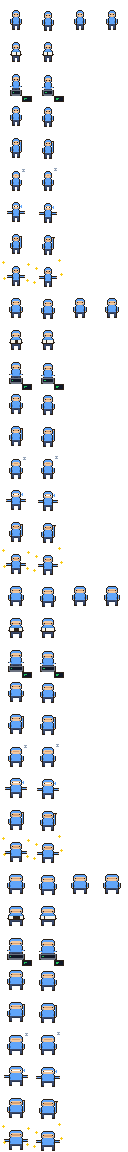
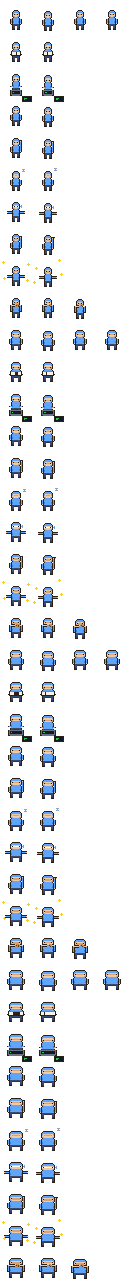
Eat a cookie whenever the context grows

diff --git a/Sources/ClaudeBuddy/Model.swift b/Sources/ClaudeBuddy/Model.swift
@@ -3,12 +3,13 @@ import Observation
 
 /// One animation row in the sprite sheet. Row order must match tools/gen_sprites.py.
 enum Pose: Int, CaseIterable {
-    case idle = 0, read, type, run, wait, sleep, oops, wave, spawn
+    case idle = 0, read, type, run, wait, sleep, oops, wave, spawn, eat
 
     var row: Int { rawValue }
     var frameCount: Int {
         switch self {
         case .idle: return 4
+        case .eat: return 3
         default: return 2
         }
     }
@@ -238,7 +239,13 @@ final class SessionModel {
             let tokens = url.flatMap(ContextMeter.contextTokens(at:))
             guard let tokens else { return }
             DispatchQueue.main.async { [weak self] in
-                self?.agents.first(where: { $0.id == id })?.contextTokens = tokens
+                guard let agent = self?.agents.first(where: { $0.id == id }) else { return }
+                let previous = agent.contextTokens
+                agent.contextTokens = tokens
+                // Context grew: nom nom. Don't interrupt a raised hand (waiting for the user).
+                if let previous, tokens > previous + 1_000, agent.pose != .wait, !agent.leaving {
+                    agent.set(.eat, bubble: "nom nom · +\(ContextMeter.format(tokens - previous))")
+                }
             }
         }
     }
@@ -256,7 +263,7 @@ final class SessionModel {
                 continue
             }
             switch a.pose {
-            case .spawn, .oops, .wave:
+            case .spawn, .oops, .wave, .eat:
                 if sincePose > 2 { a.set(.idle, bubble: a.bubble) }
             case .read, .type, .run:
                 if sinceEvent > 4 { a.set(.idle, bubble: nil) }

diff --git a/tools/gen_sprites.py b/tools/gen_sprites.py
@@ -3,10 +3,10 @@
 
 Output: Sources/ClaudeBuddy/Resources/buddy.png (main) and buddy_1..buddy_4.png (tinted clones).
 Sheet layout: 32x32 px frames, 4 columns, one animation per row (unused frames stay empty).
-Rows come in FAT_LEVELS blocks of 9: block 0 is the normal body, each further block is a wider one
+Rows come in FAT_LEVELS blocks of 10: block 0 is the normal body, each further block is a wider one
 (used as the agent's context window fills up). Within a block the row order must match
 `Pose` in Sources/ClaudeBuddy/Model.swift:
-  0 idle  1 read  2 type  3 run  4 wait  5 sleep  6 oops  7 wave  8 spawn
+  0 idle  1 read  2 type  3 run  4 wait  5 sleep  6 oops  7 wave  8 spawn  9 eat
 Replace these PNGs with your own art as long as you keep the same grid.
 """
 import struct, zlib, os, sys
@@ -37,6 +37,8 @@ BASE = {
     'd': rgb('60a5fa'),   # sweat drop
     'y': rgb('facc15'),   # sparkle
     'z': rgb('94a3b8'),   # zzz
+    'c': rgb('c98b4b'),   # cookie
+    'C': rgb('5a3a1a'),   # chocolate chips
 }
 TINTS = [
     ('e8734a', 'c4552f'),  # 0 main: coral
@@ -154,6 +156,7 @@ class Body:
         elif arms == 'up_right': self.arms_down(f, y); self.arm_up(f, y, +1)
         elif arms == 'forward': self.arms_forward(f, y, 12)
         elif arms == 'out': self.arms_out(f, y)
+        elif arms == 'eat': self.arms_eat(f, y)
 
     # props, positioned relative to the body
     def book(self, f, flip):
@@ -170,6 +173,20 @@ class Body:
     def sweat(self, f, phase):
         x, y = self.ox + self.W - 1, OY + 3 + phase
         f.put(x, y, 'd'); f.put(x, y+1, 'd'); f.put(x-1, y+1, 'd'); f.put(x, y+2, 'd')
+
+    def cookie(self, f, bitten):
+        art = [".ccc.", "cCcCc", ".ccC."] if not bitten else ["..cc.", ".cCcc", "..cC."]
+        # held just below the mouth so the eyes stay visible
+        f.blit(art, self.ox + self.W // 2 - 1, OY + 6)
+
+    def arms_eat(self, f, y):
+        # both hands raised to the mouth
+        for col, outer in ((self.L(), self.L()-1), (self.R(), self.R()+1)):
+            for j in range(8, 13): f.put(col, y+j, 'h'); f.put(outer, y+j, 'o')
+            f.put(outer, y+7, 'o'); f.put(col, y+7, 's'); f.put(col, y+13, 'o'); f.put(outer, y+13, 'o')
+        # forearms towards the centre at row 7, hands next to the cookie
+        for i in range(self.L()+1, self.ox + self.W // 2 - 1): f.put(i, y+7, 's'); f.put(i, y+6, 'o'); f.put(i, y+8, 'o')
+        for i in range(self.ox + self.W // 2 + 4, self.R()): f.put(i, y+7, 's'); f.put(i, y+6, 'o'); f.put(i, y+8, 'o')
 
     def zzz(self, f, phase):
         x, y = self.ox + self.W, OY - 1 - phase
@@ -198,6 +215,10 @@ def make_block(extra):
     a, c = fr(head='wide', arms='out'), fr(head='wide', y_off=1, arms='out'); b.sweat(a, 0); b.sweat(c, 1); rows.append([a, c])  # oops
     a = fr(head='happy', arms='up_right'); c = fr(head='happy', y_off=1, arms='up_right'); c.put(b.R()+2, OY+4, 's'); c.put(b.R()+2, OY+3, 'o'); rows.append([a, c])  # wave
     a, c = fr(head='happy', arms='out'), fr(head='happy', y_off=1, arms='out'); sparkles(a, 0); sparkles(c, 1); rows.append([a, c])  # spawn
+    a = fr(head='happy', arms='eat'); b.cookie(a, False)
+    c = fr(head='blink', arms='eat'); b.cookie(c, True)
+    d = fr(head='happy', y_off=1, arms='eat'); b.cookie(d, True)
+    rows.append([a, c, d])                                                                                # eat
     return rows
 
 def make_frames():

diff --git a/README.md b/README.md
@@ -44,6 +44,7 @@ position is remembered.
 | `PostToolUseFailure` | startled, sweat drop |
 | `PermissionRequest`, `Notification` permission_prompt | hand raised, "may I?" |
 | `Stop`, `Notification` idle_prompt | idle loop with blink |
+| context grew since last check | eating a cookie, "nom nom · +12k" |
 | 60 s without events | sleeping |
 | `SessionEnd` | waves, disappears |
 
@@ -60,6 +61,6 @@ Multiple concurrent Claude sessions each get their own character (labelled with 
 
 Sprite sheets live in `Sources/ClaudeBuddy/Resources/buddy.png` (main) and `buddy_1..4.png` (clone tints).
 Grid: 32×32 px frames, 4 columns, one animation per row in this order:
-`idle(4) read(2) type(2) run(2) wait(2) sleep(2) oops(2) wave(2) spawn(2)`,
+`idle(4) read(2) type(2) run(2) wait(2) sleep(2) oops(2) wave(2) spawn(2) eat(3)`,
 repeated as one block per fat level (normal → fattest; the app derives the level count from the sheet height).
 Drop in your own PNGs with the same grid and rebuild. Frame counts / fps per row are in `Pose` in `Model.swift`.
